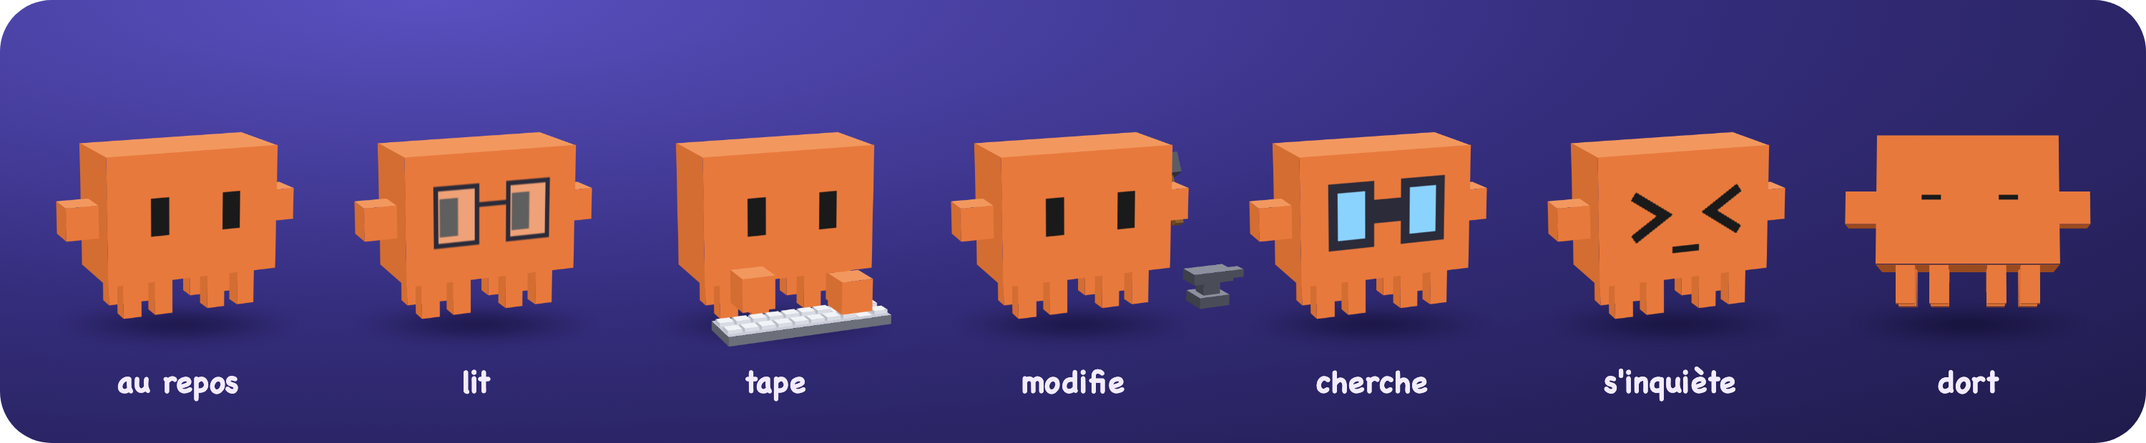
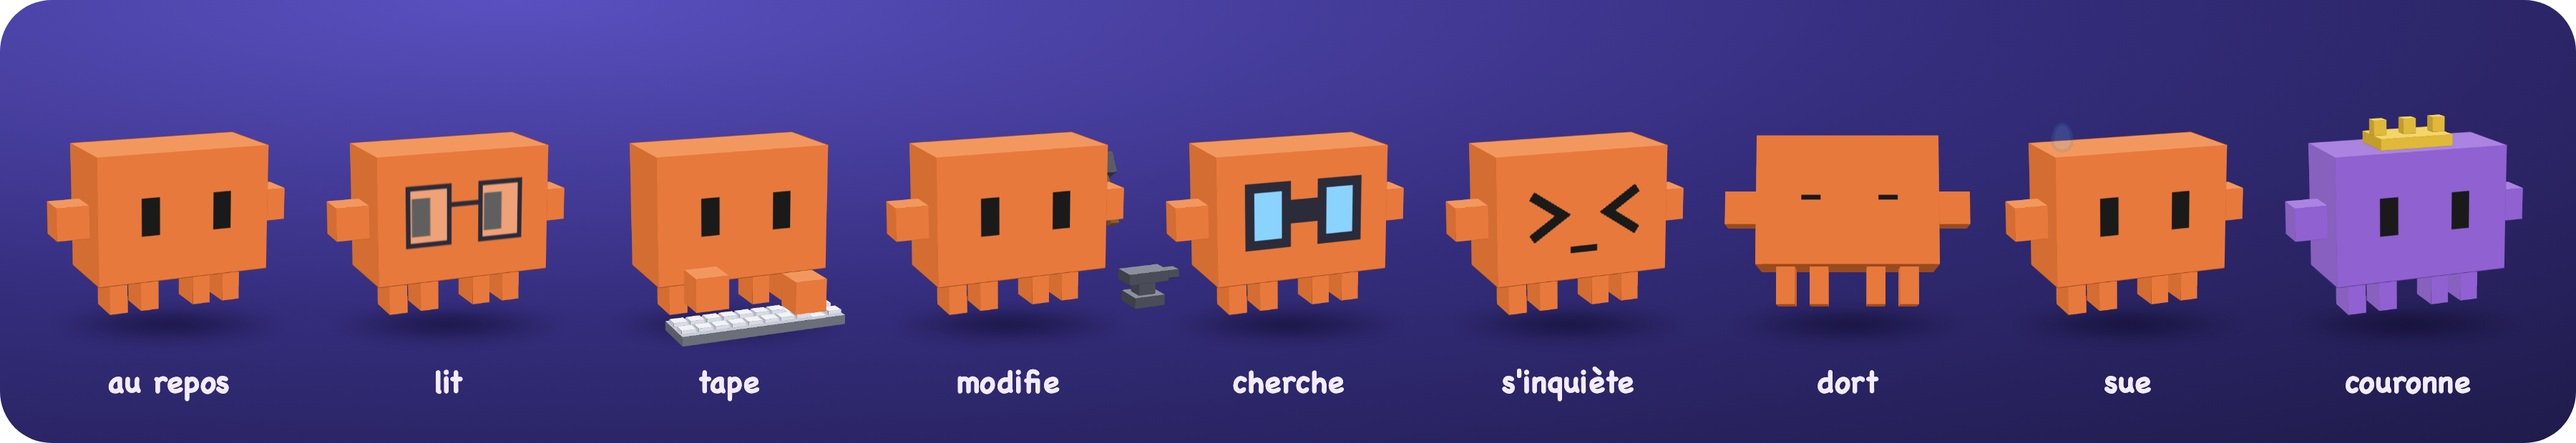
docs: planche d'états du README mise à jour (sueur, skin couronne) et taille réglable

diff --git a/app/showcase.html b/app/showcase.html
@@ -5,7 +5,7 @@
     <meta charset="UTF-8" />
     <link rel="stylesheet" href="/src/styles.css" />
     <style>
-      html, body { width: 1500px; height: 310px; margin: 0; display: block; overflow: hidden; background: transparent; }
+      html, body { width: 1800px; height: 310px; margin: 0; display: block; overflow: hidden; background: transparent; }
       .plate { position: absolute; inset: 0; border-radius: 36px; background: radial-gradient(ellipse at 20% 0%, #5a50c0 0%, #342d7c 50%, #1f1b4a 100%); }
       .row { position: absolute; inset: 0; display: flex; justify-content: space-around; align-items: flex-end; padding: 0 20px 84px; }
       .slot { position: relative; width: 200px; height: 112px; display: flex; justify-content: center; }
@@ -21,6 +21,7 @@
     <div class="row" id="row"></div>
     <script type="module">
       import { buildPet } from "/src/pet3d.ts";
+      import { setSkin } from "/src/skins.ts";
       const states = [
         ["au repos", {}],
         ["lit", { tool: "read" }],
@@ -29,17 +30,20 @@
         ["cherche", { tool: "web" }],
         ["s'inquiète", { state: "worried" }],
         ["dort", { state: "sleeping" }],
+        ["sue", { cls: "sweat" }],
+        ["couronne", { color: "violet", acc: "crown" }],
       ];
       const row = document.getElementById("row");
-      for (const [label, { tool, state }] of states) {
+      for (const [label, { tool, state, cls, color, acc }] of states) {
         const slot = document.createElement("div");
         slot.className = "slot";
         // mêmes structure et attributs que la vraie page du pet : les règles CSS visent #pet[data-state] / #pet[data-tool]
-        slot.innerHTML = `<div class="shadow"></div><div id="pet" data-state="${state ?? "idle"}" ${tool ? `data-tool="${tool}"` : ""}
+        slot.innerHTML = `<div class="shadow"></div><div id="pet" class="${cls ?? ""}" data-state="${state ?? "idle"}" ${tool ? `data-tool="${tool}"` : ""}
           style="--rx:-4; --ry:22; --lx:0.6; --ly:0.3"><div class="zzz"><span>z</span><span>z</span><span>Z</span></div>
           <div class="squash"><div class="rig"></div></div></div><span>${label}</span>`;
         row.append(slot);
         buildPet(slot.querySelector(".rig"));
+        setSkin(slot.querySelector("#pet"), color ?? "orange", acc ?? "none");
       }
     </script>
   </body>

diff --git a/README.md b/README.md
@@ -6,7 +6,7 @@
 il lit avec des lunettes, tape sur son clavier, martèle quand Claude modifie un fichier,<br>
 s'inquiète quand une commande échoue, et te répond dans une bulle.</p>
 
-<p align="center"><img src="docs/images/etats.png" alt="Les états du pet : au repos, lit, tape, modifie, cherche, s'inquiète, dort" width="100%"></p>
+<p align="center"><img src="docs/images/etats.png" alt="Les états du pet : au repos, lit, tape, modifie, cherche, s'inquiète, dort, sue, et un skin violet avec couronne" width="100%"></p>
 
 > **Beta** : testé sur macOS (Apple Silicon) avec Claude Code. Voir « Limites connues ».
 > Téléchargement : [page des releases](https://github.com/Lonejyc/pet-claude/releases).
@@ -43,7 +43,7 @@ s'inquiète quand une commande échoue, et te répond dans une bulle.</p>
 - **Coût et contexte de la session** : au survol du pet (« boutique · 1,84 $ · contexte 68 % ») et dans le menu de la barre de menus. Calculés en local depuis le transcript de la session
   (`~/.claude/projects/…`) ; une alerte douce apparaît quand le contexte atteint 80 % (la compaction automatique approche). Le coût est une estimation à partir d'une grille de tarifs
   embarquée ; la taille de la fenêtre n'étant pas dans le transcript, elle est supposée à 200 000 tokens (1 000 000 dès que le contexte dépasse 200 000).
-- **Taille réglable** : Réglages > Apparence, de 70 % à 150 %.
+- **Taille réglable** : de 70 % à 150 % (Réglages > Comportement), le pet grandit depuis ses pieds.
 - **Succès locaux** : l'usage réel débloque des accessoires, à choisir dans Réglages > Apparence : casque de chantier (100 fichiers modifiés), lunettes de soleil
   (10 tests ou builds réparés), auréole (1 session sans erreur d'outil), couronne (3 sessions sans erreur). Les compteurs sont stockés dans un fichier local
   (`achievements.json`, dossier de l'app), jamais envoyés ; un accessoire déjà choisi reste affiché même s'il est à débloquer.
@@ -106,7 +106,7 @@ Prérequis : macOS sur Apple Silicon, [Claude Code](https://claude.com/claude-co
 | `/settings` ou `/quit` dans le champ | idem, au clavier (l'icône Dock n'apparaît que pendant les réglages) |
 | `/emote` (ou `/emote six-seven`, `/emote cymbals`) dans le champ | joue une emote tout de suite |
 
-Dans **Réglages** : couleur et accessoire du pet (Apparence, avec les accessoires à débloquer), sons (volume, « alertes seulement »), raccourci du mini-chat,
+Dans **Réglages** : taille, couleur et accessoire du pet (Apparence, avec les accessoires à débloquer), sons (volume, « alertes seulement »), raccourci du mini-chat,
 mode furtif, et un mode « emotes au lieu de dormir » (six seven, singe à cymbales).
 
 ## Ce qui est modifié sur ta machine
